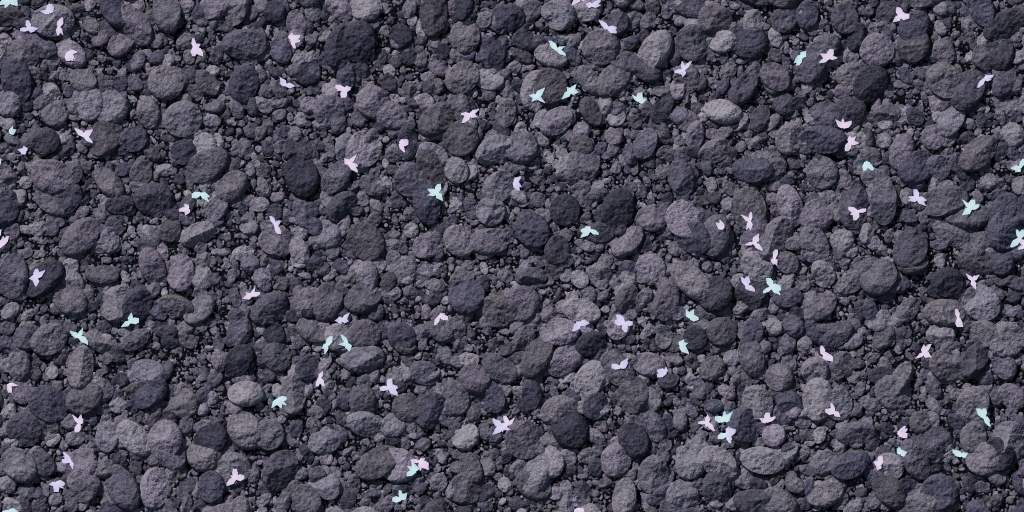
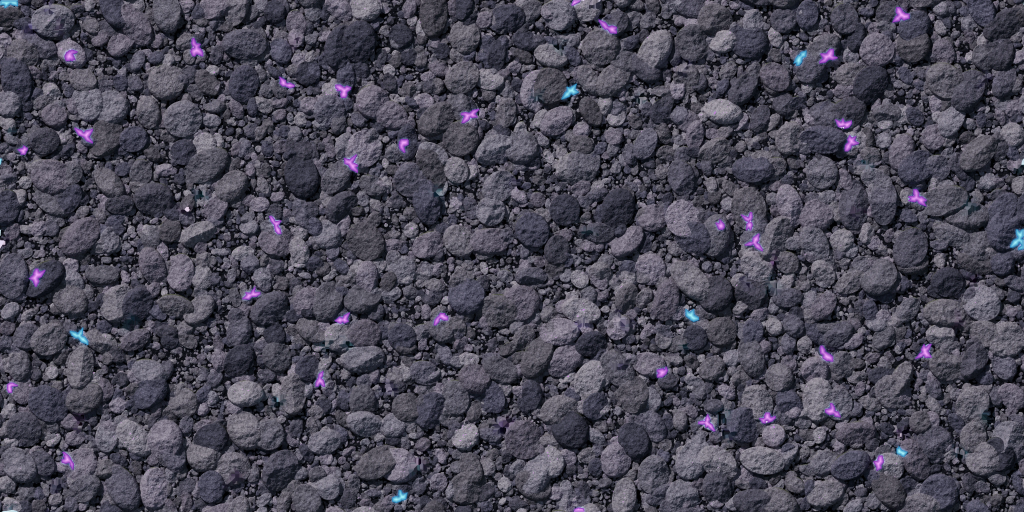
Версия 2026.10.17-70: порода Alien тёмная, как в эталоне, вместо белых «бабочек» — редкие светящиеся кристаллы
Claude-Session: https://claude.ai/code/session_01JvXrYdG1XCH4i3GESsQzbh

diff --git a/js/themes.js b/js/themes.js
@@ -112,7 +112,7 @@ const THEMES = {
       strata: ['#4a3470', '#5a3f86', '#3c2a5e', '#6a4c98', '#50387a'], band: 28, bandSharp: 0.3,
       rock: ['#4a3470', '#5a3f86', '#3c2a5e', '#6a4c98'],
       pebbles: ['#6a55a0', '#56448a', '#7d68b8'], smoothStones: true, stoneRim: '#7ae8ff',
-      outline: '#0b0620', veins: { color: '#5ff4ff', color2: '#ff6ef6', w: 0.02, glow: true }, ceiling: 'crystals', capMats: [1], tex: { dirt: 'rock_alien' /* dirt_alien — та же картинка: одна родная ×4 вместо двух одинаковых */, rock: 'rock_alien', cave: 'cave_alien', grass: 'grass_alien', glowTex: [90, 235, 255], gain: [1.6, 1.52, 1.36] /* v53: порода — насыпь глыб из Blender (make_rubble.py alien), светлее и контрастнее прежней сшивки */ },
+      outline: '#0b0620', veins: { color: '#5ff4ff', color2: '#ff6ef6', w: 0.02, glow: true }, ceiling: 'crystals', capMats: [1], tex: { dirt: 'rock_alien' /* dirt_alien — та же картинка: одна родная ×4 вместо двух одинаковых */, rock: 'rock_alien', cave: 'cave_alien', grass: 'grass_alien', glowTex: [90, 235, 255], gain: [1.12, 1.28, 0.72] /* v70: cmatch к эталону, кадр alien:1700:1000 — порода 26/23/30 при эталоне 29/27/30 (было [1.6, 1.52, 1.36] — порода в 1,7 раза светлее и фиолетовая; эталон — почти чёрная) */ },
     },
     scatter: ['crystal', 'pod', 'alienplant', 'crystal', 'alienplant', 'pod', 'alienplant'],   /* r28: растений на островах вдвое больше */
     weather: 'spores', birds: false, ambient: '#8474b0', gravity: 0.72, ambientSound: 'space', glow: true,

diff --git a/index.html b/index.html
@@ -114,7 +114,7 @@
         </div>
       </div>
     </div>
-    <footer class="menu-footer"><span id="game-version">ВЕРСИЯ 2026.10.17-69</span><span>ПЛАНИРУЙ ХОД. МЕНЯЙ ЛАНДШАФТ.</span><span class="footer-status"><i></i> ГОТОВ К БОЮ</span></footer>
+    <footer class="menu-footer"><span id="game-version">ВЕРСИЯ 2026.10.17-70</span><span>ПЛАНИРУЙ ХОД. МЕНЯЙ ЛАНДШАФТ.</span><span class="footer-status"><i></i> ГОТОВ К БОЮ</span></footer>
   </section>
 
   <!-- Онлайн -->

diff --git a/dev/tools/alien_crystals.py b/dev/tools/alien_crystals.py
@@ -1,0 +1,77 @@
+"""Кристаллы в насыпи Alien (критик r29: «белые пятна-бабочки»): меньше и ярче, как светящиеся кристаллы эталона.
+
+python dev/tools/alien_crystals.py [--name rock_alien] [--keep 0.4] [--seed 3]
+
+Родная ×4 assets/tex/native/<имя>.webp (прежняя — dev/tex-backup/<имя>_native.webp, один раз):
+- кристалл = светлые окрашенные пиксели (бледно-сиреневые и мятные значки make_rubble.py);
+- доля (1 − keep) убирается: заливка средним камнем вокруг (итеративное расширение по маске);
+- оставшиеся — насыщенные: тёмный край → яркая сердцевина (бирюза или пурпур по исходному оттенку), отсвет 6 px.
+Пишет родную webp (q90) и малую assets/tex/<имя>.png (точное уменьшение 4×4).
+"""
+import argparse
+import shutil
+from pathlib import Path
+
+import numpy as np
+from PIL import Image
+from scipy import ndimage
+
+ROOT = Path(__file__).resolve().parent.parent.parent
+Image.MAX_IMAGE_PIXELS = None
+
+
+def inpaint(img, mask, it=40):
+    out = img.copy(); m = mask.copy()
+    for _ in range(it):
+        if not m.any(): break
+        known = ~m
+        s = np.zeros_like(out); c = np.zeros(m.shape, np.float32)
+        for dy, dx in ((1, 0), (-1, 0), (0, 1), (0, -1), (2, 0), (-2, 0), (0, 2), (0, -2)):
+            kk = np.roll(known, (dy, dx), (0, 1)); s += np.roll(out, (dy, dx), (0, 1)) * kk[..., None]; c += kk
+        fill = m & (c > 0)
+        out[fill] = s[fill] / c[fill][:, None]; m &= ~fill
+    return out
+
+
+def main():
+    ap = argparse.ArgumentParser()
+    ap.add_argument('--name', default='rock_alien')
+    ap.add_argument('--keep', type=float, default=0.4)
+    ap.add_argument('--seed', type=int, default=3)
+    a = ap.parse_args()
+    nat = ROOT / 'assets/tex/native' / f'{a.name}.webp'
+    bak = ROOT / 'dev/tex-backup' / f'{a.name}_native.webp'
+    if not bak.exists():
+        bak.parent.mkdir(parents=True, exist_ok=True); shutil.copy(nat, bak)
+    img = np.asarray(Image.open(bak).convert('RGB')).astype(np.float32)
+    H, W, _ = img.shape
+    R, G, B = img[..., 0], img[..., 1], img[..., 2]; L = img.mean(2)
+    # значки светлее любого камня (L > 175 при медиане 78) и окрашены; камень сам голубовато-серый — без порога яркости маска ловит макушки глыб
+    cry = (L > 175) & ((B > R + 6) | (G > R + 12))
+    cry = ndimage.binary_dilation(ndimage.binary_fill_holes(ndimage.binary_closing(cry, iterations=2)), iterations=1)
+    lab, n = ndimage.label(cry)
+    rng = np.random.default_rng(a.seed)
+    keep = np.zeros(n + 1, bool); keep[1:] = rng.random(n) < a.keep
+    drop = cry & ~keep[lab]
+    out = inpaint(img, ndimage.binary_dilation(drop, iterations=1))
+    # оставшиеся: оттенок по исходному цвету (зелёный перевес — бирюза, иначе пурпур)
+    hue_g = ndimage.mean(G - R, lab, range(n + 1)) > 10
+    kmask = cry & keep[lab]
+    edt = ndimage.distance_transform_edt(kmask)
+    mx = ndimage.maximum(edt, lab, range(n + 1)); q = np.clip(edt / np.maximum(mx[lab], 1), 0, 1)
+    cyan = (np.array([20, 110, 170.]), np.array([175, 250, 255.]))
+    mag = (np.array([110, 30, 160.]), np.array([250, 175, 255.]))
+    for sel, (c0, c1) in ((kmask & hue_g[lab], cyan), (kmask & ~hue_g[lab], mag)):
+        qq = q[sel][:, None] ** 0.8
+        out[sel] = c0 * (1 - qq) + c1 * qq
+    glow = ndimage.gaussian_filter(kmask.astype(np.float32), 6) * 1.6
+    out += (np.clip(glow, 0, 1) ** 1.4)[..., None] * np.array([40, 70, 110.]) * (~kmask)[..., None]
+    out = np.clip(np.rint(out), 0, 255).astype(np.uint8)
+    Image.fromarray(out).save(nat, 'WEBP', quality=90, method=6)
+    small = out.reshape(H // 4, 4, W // 4, 4, 3).astype(np.float32).mean((1, 3))
+    Image.fromarray(np.clip(np.rint(small), 0, 255).astype(np.uint8)).save(ROOT / 'assets/tex' / f'{a.name}.png', optimize=True)
+    print('crystals', n, 'kept', int(keep.sum()), 'wrote', nat)
+
+
+if __name__ == '__main__':
+    main()

diff --git a/dev/NEXT_STEPS.md b/dev/NEXT_STEPS.md
@@ -317,6 +317,7 @@
 - v67 (17.10): ЧЁРНАЯ ЗЕМЛЯ ГОРОДА (с v55 ПК) — в объекте S (buildTerrainVisual) два ключа `band`: массив яркости слоёв (долина/замки) затирался числом G.band → `S.band[y]` = NaN → чёрный грунт у тем без текстуры грунта (город). Массив переименован в `soilBand`; слои грунта долины/замков теперь реально работают. Найдено бисекцией коммитов ПК (crop без поверхности, средняя яркость).
 - v68 (17.10): швы туннелей города (x≈300, 4500) — глубина грунта по столбцу TD начиналась заново под полом туннеля; для тона, камней, корней процедурного грунта (mt 1) теперь S.TDs — TD, сглаженная по горизонтали ±48 px по твёрдому (sd — только для кромки/губы/почвы). Опора моста города уходит под воду (до water+40) — в игре правильно, «обрыв» виден только на вырезке без воды; тонкая линия на y=1700 тоже под водой. Каньон: правый массив (district, грунт dirt_canyon — старая сшивка с прямоугольными лоскутами) → те же файлы, что rock_canyon (слоистые плиты, как в эталоне); прежняя — dev/tex-backup/dirt_canyon.png.
 - v69 (17.10): критик r29 (dev/reviews/r29.md): вулкан 4, арктика 4, alien 5, замки 5.5, каньон/пираты 6.5, город 7. Сделано: расплав вулкана — тонкие светящиеся трещины (dev/tools/volcano_lava_cracks.py), снег в породе Арктики объёмный (dev/tools/arctic_snow_relief.py). Дальше: alien (белые «бабочки», кристаллы), замки (крупный камень стены), пираты (фактура досок, свет фонарей), долина — переснять.
+- v70 (17.10): Alien — значки-«бабочки» в насыпи (L>175) на 60 % убраны, остальные — насыщенные кристаллы с отсветом (dev/tools/alien_crystals.py); gain породы [1.12, 1.28, 0.72] по эталону (порода была в 1,7 раза светлее и фиолетовой). ВНИМАНИЕ: кадр auto выбирается случайно (то остров, то станция) — для замеров cmatch брать фиксированную камеру (alien:1700:1000).
 - Ещё не исправлено (по заметности): каньон — конец арки оторван от плато x≈3456–3478, кирпичный кубик x422–569, обломок крыши x1300–1360; арктика — красный модуль станции на пике x2184–2304 (возможно, оставить: полярные станции красные); пиратская — круглая пробоина x2189–2271 (задумана, вырез); alien — прорезь в острове x2222–2256; valley — дренажные окна в пролётах моста (вырезы, оставлены); каньон — разрыв арки x≈3480 — это шахта лестницы (в игре лестница видна); общее — висящая верёвочная лестница в правой пропасти x≈4730–4830 (до воды не доходит).
 
 ## Оружие (A2) — ход работы 16.10
